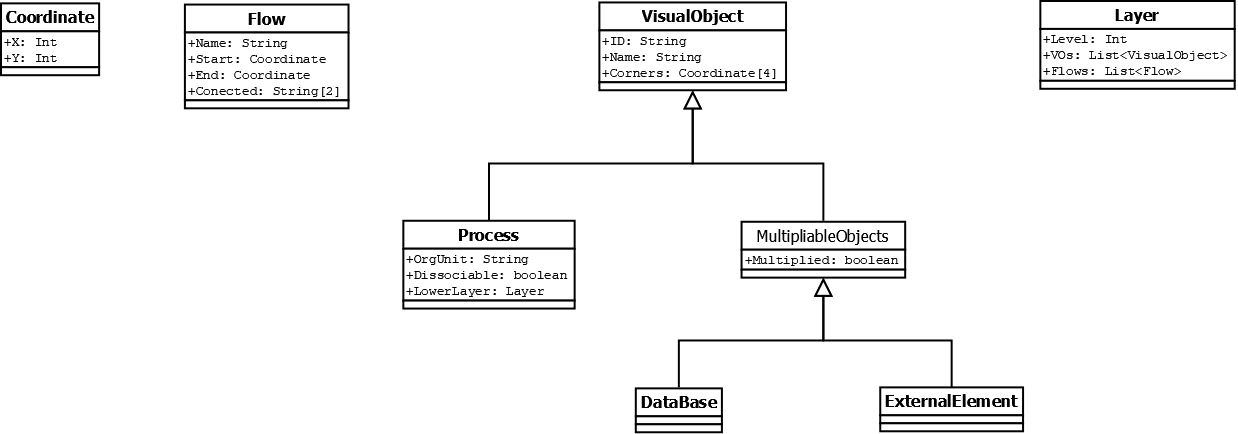
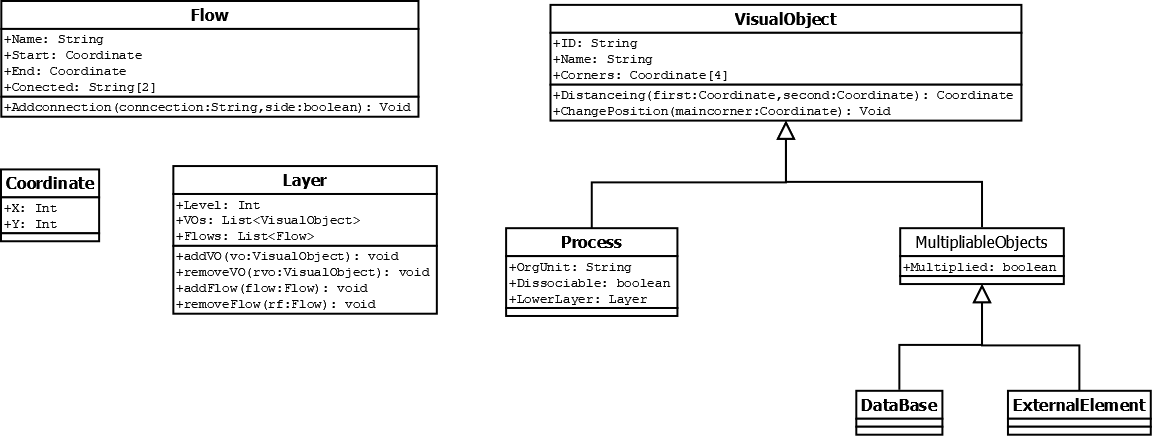
Model update és megvalósítás

diff --git a/theApplication/DFDeditor/src/main/java/Model/VOs/VisualObject.java b/theApplication/DFDeditor/src/main/java/Model/VOs/VisualObject.java
@@ -1,0 +1,58 @@
+package Model.VOs;
+
+import Model.Coordinate;
+
+public class VisualObject {
+    private String ID, Name;
+    private Coordinate[] Corners= new Coordinate[4];
+
+    public VisualObject(Coordinate[] corners) {
+        Corners = corners;
+    }
+
+    public VisualObject(String ID, String name, Coordinate[] corners) {
+        this.ID = ID;
+        Name = name;
+        Corners = corners;
+    }
+
+    public String getID() {
+        return ID;
+    }
+
+    public String getName() {
+        return Name;
+    }
+
+    public Coordinate[] getCorners() {
+        return Corners;
+    }
+
+    public void setID(String ID) {
+        this.ID = ID;
+    }
+
+    public void setName(String name) {
+        Name = name;
+    }
+
+    public void setCorners(Coordinate[] corners) {
+        Corners = corners;
+    }
+
+    public Coordinate Distancing (Coordinate first, Coordinate second){
+        return new Coordinate(first.getX()-second.getX(),
+                first.getY()-second.getY());
+
+    }
+
+
+    public void ChangePosition(Coordinate maincorner) {
+        Coordinate distance= Distancing(Corners[0],maincorner);
+        for (int i = 0; i < 4; i++) {
+            Corners[i].add(distance);
+        }
+    }
+
+
+}

diff --git a/theApplication/DFDeditor/src/main/java/Model/Flow.java b/theApplication/DFDeditor/src/main/java/Model/Flow.java
@@ -1,0 +1,59 @@
+package Model;
+
+public class Flow {
+    private String Name;
+    private String[] Connected= new String[2];
+    private Coordinate Start, End;
+
+    public Flow(Coordinate start, Coordinate end) {
+        Start = start;
+        End = end;
+    }
+
+    public Flow(Coordinate start, Coordinate end, String[] connected) {
+        setConnected(connected);
+        Start = start;
+        End = end;
+    }
+
+    public String getName() {
+        return Name;
+    }
+
+    public void setName(String name) {
+        Name = name;
+    }
+
+    public String[] getConnected() {
+        return Connected;
+    }
+
+    public void setConnected(String[] connected) {
+        Connected[0] = connected[0];
+        Connected[1] = connected[1];
+    }
+
+    public Coordinate getStart() {
+        return Start;
+    }
+
+    public void setStart(Coordinate start) {
+        Start = start;
+    }
+
+    public Coordinate getEnd() {
+        return End;
+    }
+
+    public void setEnd(Coordinate end) {
+        End = end;
+    }
+
+    public void addConnection(String connection, boolean side){
+        if (side){
+            Connected[0]=connection;
+            return;
+        }
+        Connected[1]=connection;
+    }
+}

diff --git a/theApplication/DFDeditor/src/main/java/Model/Layer.java b/theApplication/DFDeditor/src/main/java/Model/Layer.java
@@ -1,0 +1,50 @@
+package Model;
+
+import Model.VOs.VisualObject;
+
+import java.util.ArrayList;
+import java.util.List;
+
+public class Layer {
+    private int Level;
+    private List<VisualObject> VOs=new ArrayList<>();
+    private List<Flow> Flows=new ArrayList<>();
+
+    public Layer(int level) {
+        Level = level;
+    }
+
+    public void setLevel(int level) {
+        Level = level;
+    }
+
+    public int getLevel() {
+        return Level;
+    }
+
+
+    public void addVO(VisualObject vo){
+        VOs.add(vo);
+    }
+
+    public void removeVO(VisualObject rvo){
+        int i = 0;
+        while (i<VOs.size()&& VOs.get(i)!=rvo){
+            i++;
+        }
+        if (i < VOs.size()) VOs.remove(i);
+    }
+
+    public void addFlow(Flow flow){
+        Flows.add(flow);
+    }
+
+    public void removeFlow(Flow rf){
+        int i=0;
+        while (i<Flows.size()&&Flows.get(i)!=rf){
+            i++;
+        }
+        if (i<Flows.size()) Flows.remove(i);
+    }
+
+}

diff --git a/theApplication/DFDeditor/src/main/java/Model/VOs/Process.java b/theApplication/DFDeditor/src/main/java/Model/VOs/Process.java
@@ -1,0 +1,38 @@
+package Model.VOs;
+
+import Model.Coordinate;
+import Model.Layer;
+
+public class Process extends VisualObject{
+    private String OrgUnit;
+    private boolean Dissociable;
+    private Layer LowerLayer;
+
+    public Process(Coordinate[] corners) {
+        super(corners);
+    }
+
+    public String getOrgUnit() {
+        return OrgUnit;
+    }
+
+    public void setOrgUnit(String orgUnit) {
+        OrgUnit = orgUnit;
+    }
+
+    public boolean isDissociable() {
+        return Dissociable;
+    }
+
+    public void setDissociable(boolean dissociable) {
+        Dissociable = dissociable;
+    }
+
+    public Layer getLowerLayer() {
+        return LowerLayer;
+    }
+
+    public void setLowerLayer(Layer lowerLayer) {
+        LowerLayer = lowerLayer;
+    }
+}

diff --git a/theApplication/DFDeditor/src/main/java/Model/Coordinate.java b/theApplication/DFDeditor/src/main/java/Model/Coordinate.java
@@ -1,0 +1,32 @@
+package Model;
+
+public class Coordinate {
+    private int X, Y;
+
+    public Coordinate(int x, int y) {
+        X = x;
+        Y = y;
+    }
+
+    public int getX() {
+        return X;
+    }
+
+    public void setX(int x) {
+        X = x;
+    }
+
+    public int getY() {
+        return Y;
+    }
+
+    public void setY(int y) {
+        Y = y;
+    }
+
+    public void add(Coordinate distance){
+        this.setX(X+distance.getX());
+        this.setY(Y+distance.getY());
+    }
+
+}

diff --git a/theApplication/DFDeditor/src/main/java/Model/VOs/MultipliableObjects.java b/theApplication/DFDeditor/src/main/java/Model/VOs/MultipliableObjects.java
@@ -1,0 +1,16 @@
+package Model.VOs;
+
+import Model.Coordinate;
+
+public class MultipliableObjects extends VisualObject{
+    private boolean Multiplied;
+
+    public MultipliableObjects(Coordinate[] corners) {
+        super(corners);
+    }
+
+    public MultipliableObjects(Coordinate[] corners, boolean multiplied) {
+        super(corners);
+        Multiplied = multiplied;
+    }
+}

diff --git a/theApplication/DFDeditor/src/main/java/Model/VOs/ExternalElement.java b/theApplication/DFDeditor/src/main/java/Model/VOs/ExternalElement.java
@@ -1,0 +1,13 @@
+package Model.VOs;
+
+import Model.Coordinate;
+
+public class ExternalElement extends MultipliableObjects{
+    public ExternalElement(Coordinate[] corners) {
+        super(corners);
+    }
+
+    public ExternalElement(Coordinate[] corners, boolean multiplied) {
+        super(corners, multiplied);
+    }
+}

diff --git a/theApplication/DFDeditor/src/main/java/Model/VOs/DataBase.java b/theApplication/DFDeditor/src/main/java/Model/VOs/DataBase.java
@@ -1,0 +1,13 @@
+package Model.VOs;
+
+import Model.Coordinate;
+
+public class DataBase extends MultipliableObjects{
+    public DataBase(Coordinate[] corners) {
+        super(corners);
+    }
+
+    public DataBase(Coordinate[] corners, boolean multiplied) {
+        super(corners, multiplied);
+    }
+}
